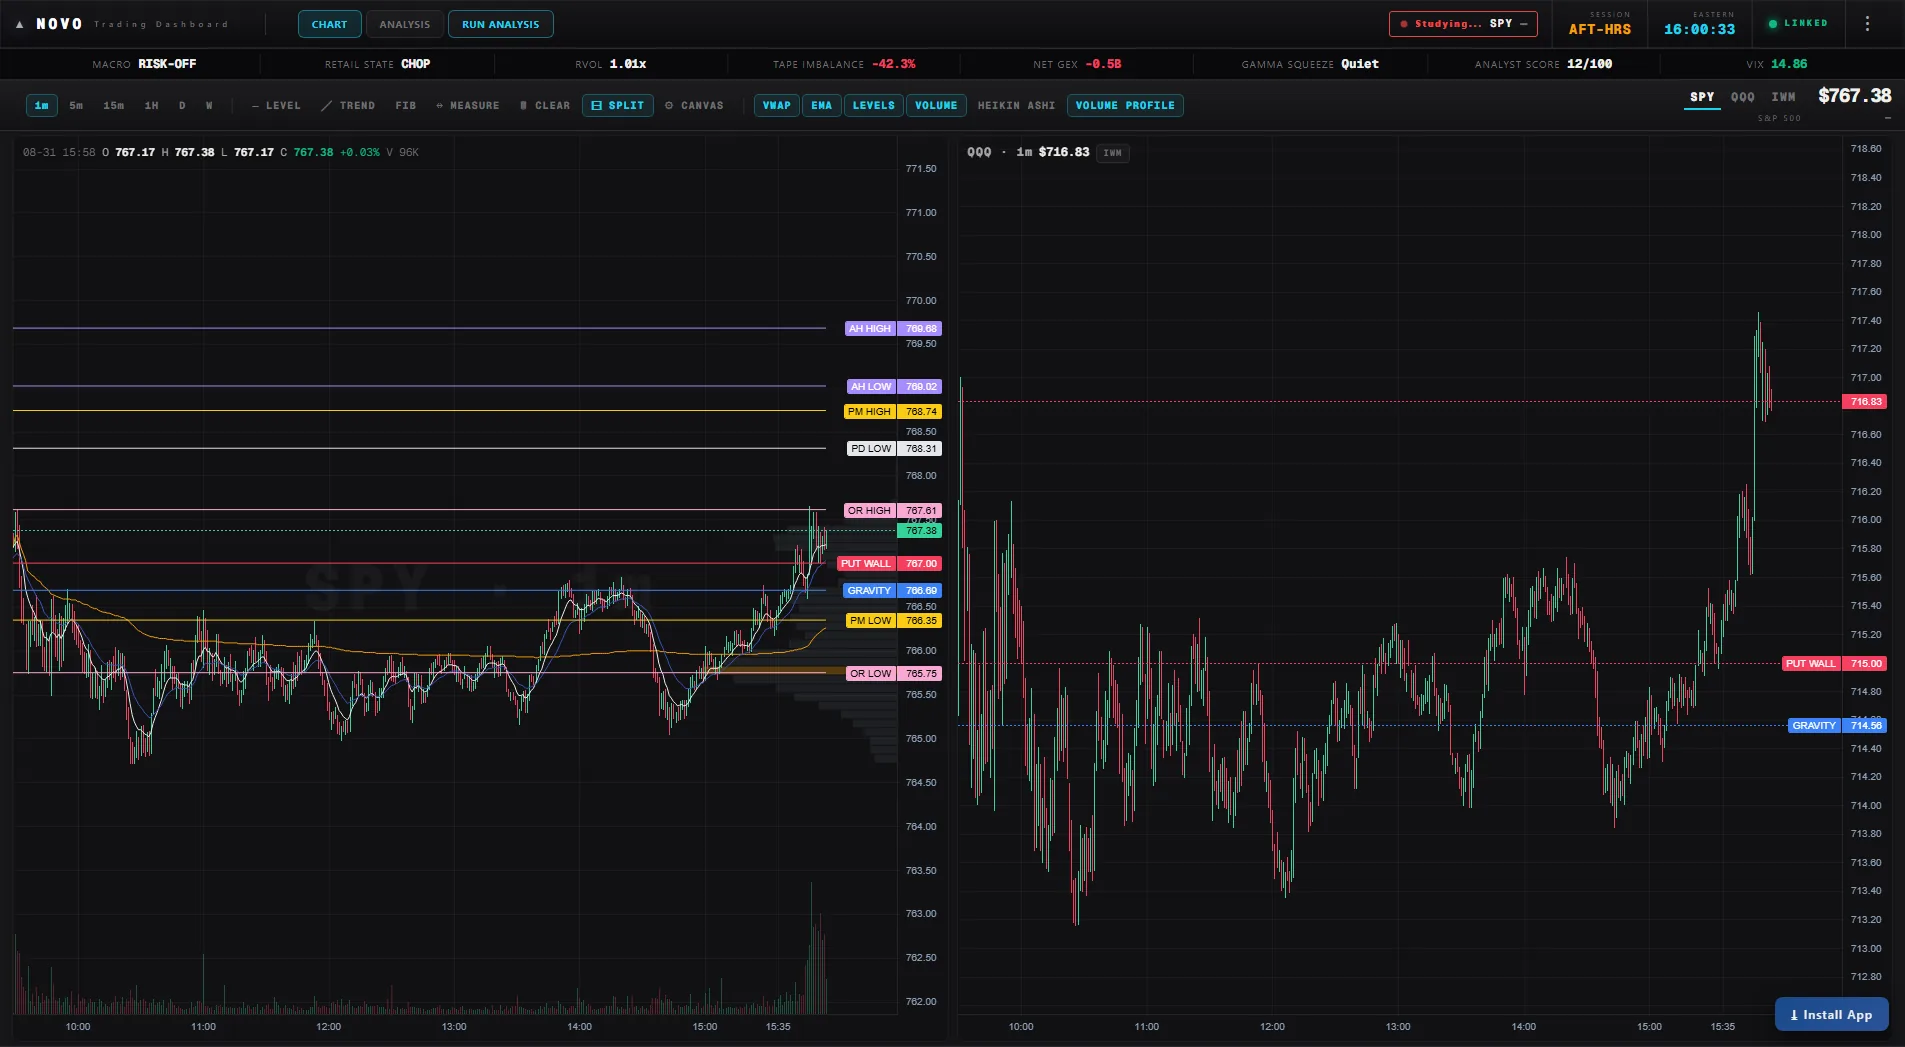
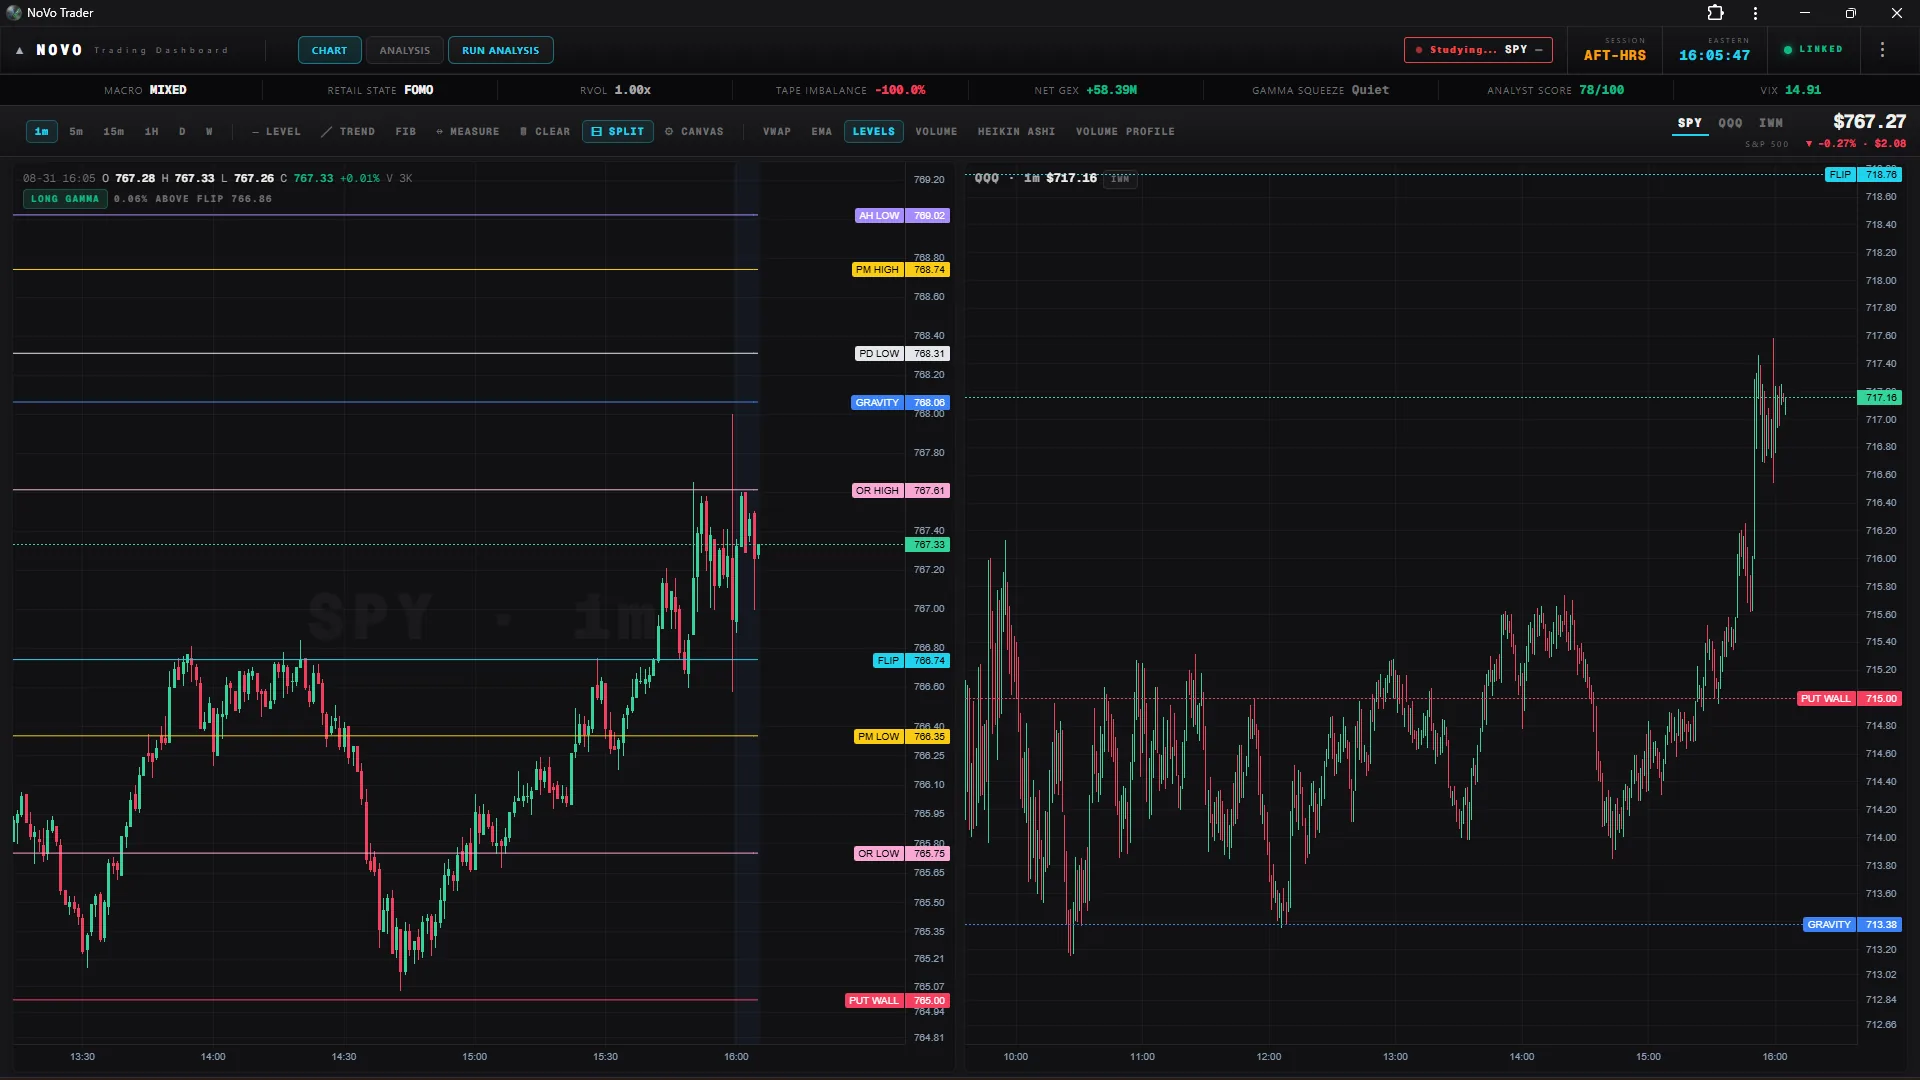
Hero shot swapped for Jake's own live capture (16:05:47)
Jake shot the terminal himself just after the close and it beats the
harness-composed one: authentically live off his machine -- LONG GAMMA
flip reclaim at 766.86, analyst score 78/100, tape imbalance -100%,
LINKED green, SPY|QQQ split with both tickers' dealer structure. Alt
rewritten truthfully (VP toggle is not lit in this shot, so the alt no
longer claims it visible); ?v=5, og-trader rebuilt on it, og v=9.

diff --git a/public/trader.html b/public/trader.html
@@ -36,7 +36,7 @@ j.src='https://www.googletagmanager.com/gtm.js?id='+i+dl;f.parentNode.insertBefo
 <link rel="icon" href="/icon-192.png?v=7">
 <link rel="apple-touch-icon" href="/apple-touch-icon.png?v=5">
 <meta name="theme-color" content="#121316">
-<meta property="og:image" content="https://novo-options.trade/og-trader.png?v=8">
+<meta property="og:image" content="https://novo-options.trade/og-trader.png?v=9">
 <meta property="og:image:width" content="1200">
 <meta property="og:image:height" content="630">
 <meta name="twitter:card" content="summary_large_image">
@@ -44,7 +44,7 @@ j.src='https://www.googletagmanager.com/gtm.js?id='+i+dl;f.parentNode.insertBefo
 <meta name="twitter:creator" content="@0dte_NoVo">
 <meta name="twitter:title" content="NoVo | SPY, QQQ & IWM Scalping Made Easy — The Live Dealer Map">
 <meta name="twitter:description" content="Every dealer level on SPY, QQQ & IWM drawn on a live chart as it moves, with NoVo's hourly audit and its own record on the setup in front of you.">
-<meta name="twitter:image" content="https://novo-options.trade/og-trader.png?v=8">
+<meta name="twitter:image" content="https://novo-options.trade/og-trader.png?v=9">
 <link rel="canonical" href="https://novo-options.trade/trader">
 <link rel="preconnect" href="https://fonts.googleapis.com">
 <link rel="preconnect" href="https://fonts.gstatic.com" crossorigin>
@@ -59,7 +59,7 @@ j.src='https://www.googletagmanager.com/gtm.js?id='+i+dl;f.parentNode.insertBefo
       "name": "NoVo Options Trading",
       "url": "https://novo-options.trade",
       "logo": "https://novo-options.trade/novo-logo.png",
-      "image": "https://novo-options.trade/og-trader.png?v=8",
+      "image": "https://novo-options.trade/og-trader.png?v=9",
       "description": "Trader draws every dealer level on SPY, QQQ & IWM on a live chart as it moves — gamma flip, call and put walls, VWAP, expected move — with NoVo's hourly structural audit and its own logged record on the setup beside it.",
       "email": "support@novo-options.trade",
       "sameAs": [
@@ -86,7 +86,7 @@ j.src='https://www.googletagmanager.com/gtm.js?id='+i+dl;f.parentNode.insertBefo
       "applicationCategory": "FinanceApplication",
       "operatingSystem": "Web",
       "description": "SPY, QQQ & IWM options scalping made easy — an AI market analyst that draws every dealer level on your live chart, reads the tape all day, audits the structure every hour, and shows what its own record says the setup has done before.",
-      "image": "https://novo-options.trade/og-trader.png?v=8",
+      "image": "https://novo-options.trade/og-trader.png?v=9",
       "url": "https://novo-options.trade",
       "sameAs": [
         "https://x.com/0dte_NoVo",
@@ -612,7 +612,7 @@ nav { position: relative; }
 </style>
 
     <div class="hero-mashup">
-      <div class="hm-back"><img src="/screenshots/trader-live-desk.webp?v=4" width="1905" height="1047" alt="The Trader terminal in split view at the close &mdash; SPY's live 1-minute chart with the session volume profile drawn beside the dealer levels (put wall, gravity, opening range, pre-market and prior-day levels, every one price-labelled), QQQ in the second pane against its own put wall and gravity, the full toolbar (timeframes 1m to weekly, drawing tools, Heikin Ashi, volume profile, split view, canvas settings) and the intel strip: macro regime, retail state, relative volume, tape imbalance, net GEX, gamma squeeze, Analyst Score and VIX" loading="eager" fetchpriority="high" decoding="async"></div>
+      <div class="hm-back"><img src="/screenshots/trader-live-desk.webp?v=5" width="1920" height="1080" alt="The Trader terminal live in split view just after the close &mdash; SPY's 1-minute chart reclaiming the gamma flip into long-gamma territory, every dealer and session level price-labelled in the pane (flip, put wall, gravity, opening range, pre-market and prior-day levels), QQQ in the second pane against its own flip, put wall and gravity, the full toolbar (1m to weekly, drawing tools, Heikin Ashi, volume profile, split view, canvas settings) and the live intel strip: macro regime, retail state, relative volume, tape imbalance, net GEX, gamma squeeze, Analyst Score and VIX" loading="eager" fetchpriority="high" decoding="async"></div>
       <div class="hm-fan">
         <div class="hm-card" style="transform:rotate(-11deg) ;z-index:4;"><img src="/screenshots/trader-live-chart.webp?v=3" width="529" height="1046" alt="Trader on a phone &mdash; the chart tab &mdash; the live 1-minute chart with the put wall, gravity, opening-range and pre-market levels drawn and the short-gamma read pinned to the pane, with Market Intel beneath: VIX, macro regime, retail state, relative volume, tape imbalance, net GEX, the gamma-squeeze bar and the Analyst Score" loading="lazy" decoding="async"></div>
         <div class="hm-card" style="transform:rotate(9deg) translateY(16px);z-index:3;margin-left:-46px;"><img src="/screenshots/trader-live-analysis.webp?v=2" width="500" height="1047" alt="Trader on a phone &mdash; the analysis tab &mdash; the top-of-hour structural audit with its bias, identified levels, observed patterns and written thesis, NoVo's pre-market primer, and 'The Line' level-break playbook" loading="lazy" decoding="async"></div>
